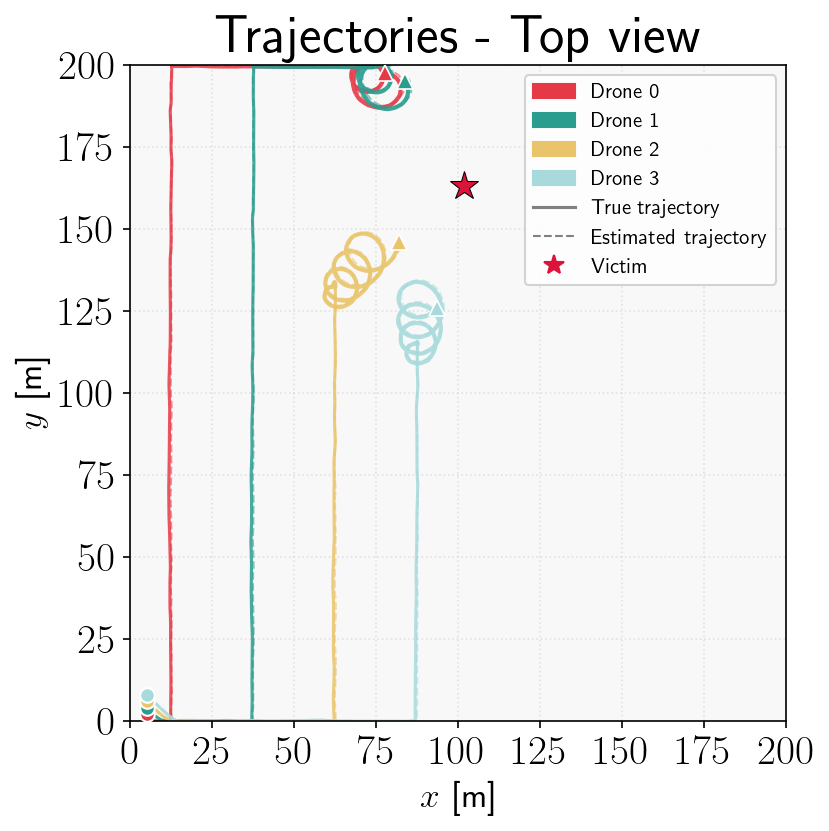
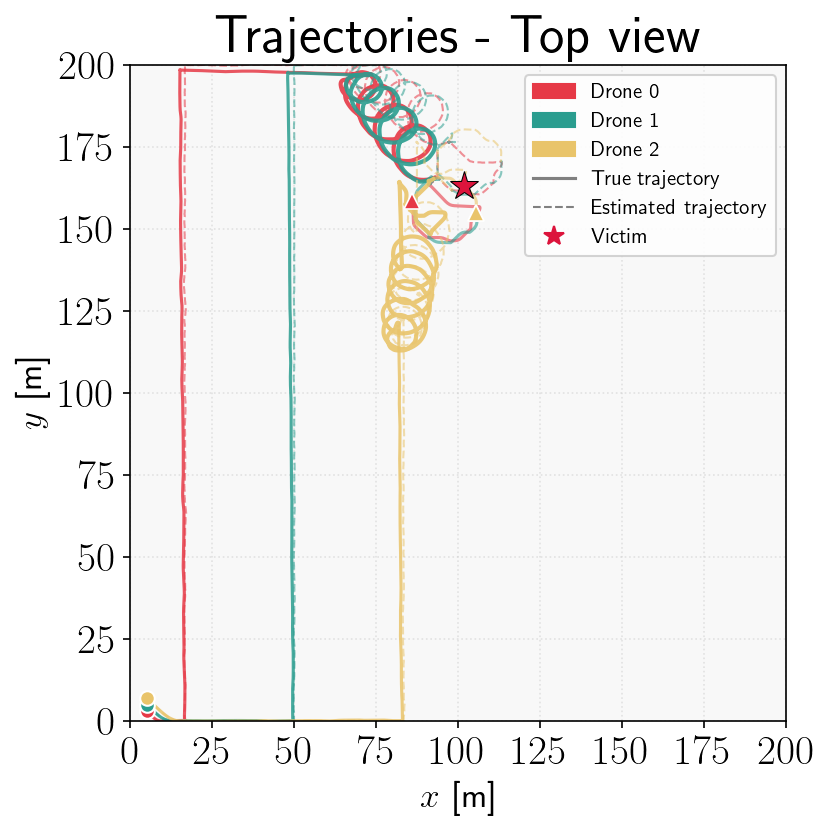
added final orbit

Changed region(s): [[0.1508, 0.0602, 0.6031, 0.8724], [0.6333, 0.1805, 0.9349, 0.3309]]

diff --git a/simulation.py b/simulation.py
@@ -56,6 +56,7 @@ from config import (
     SUPPORT_CIRCLE_N, TRIANGULATE_N_PARTNERS,
     SUPPORT_SEARCH_TIMEOUT, CONSENSUS_K_MAX,
     N_STOP,
+    FINAL_ORBIT_RADIUS, FINAL_ORBIT_N_WAYPOINTS,
 )
 
 
@@ -289,6 +290,40 @@ def _retry_support_search(
         stop_ag.support_pending = False
 
 
+def _start_final_orbit(
+    agents:    Dict[int, DroneAgent],
+    drone_ids: list,
+    terrain:   Terrain,
+    agl:       float,
+) -> list:
+    """
+    Avvia l'orbita finale di raffinamento: tutti i droni con PF attivo orbitano
+    attorno a un centro statico (media delle stime PF nel frame stimato) per
+    raccogliere viste diverse e affinare il PF prima dell'arresto.
+
+    Restituisce la lista degli id dei droni messi in orbita (vuota se nessun PF
+    è attivo, nel qual caso la simulazione può fermarsi subito).
+    """
+    pf_ids = [i for i in drone_ids
+              if agents[i].pf is not None and agents[i].source_est is not None]
+    if not pf_ids:
+        return []
+
+    center = np.mean([agents[i].source_est[:3] for i in pf_ids], axis=0)
+    n = len(pf_ids)
+    for k, i in enumerate(pf_ids):
+        ag = agents[i]
+        cw          = (k % 2 == 0)
+        start_angle = 2.0 * np.pi * k / n
+        ag.waypoints = circle_waypoints(center, FINAL_ORBIT_RADIUS,
+                                        start_angle, cw, terrain,
+                                        n_pts=FINAL_ORBIT_N_WAYPOINTS, agl=agl)
+        ag.wp_idx           = 0
+        ag.final_orbit_done = False
+        ag.state            = DroneState.FINAL_ORBIT
+    return pf_ids
+
+
 # ============================================================================
 # Extremum Seeking — TRACK mode  [Azzollini et al. 2021]
 # ============================================================================
@@ -386,6 +421,10 @@ def _on_wp_reached(
     elif ag.state == DroneState.SUPPORT:
         if not ag.advance_waypoint():
             ag.wp_idx = 0   # cicla la circonferenza
+
+    elif ag.state == DroneState.FINAL_ORBIT:
+        if not ag.advance_waypoint():
+            ag.final_orbit_done = True   # ultimo waypoint del cerchio raggiunto
 
     elif ag.state == DroneState.STOP:
         pass  # hovering
@@ -576,14 +615,28 @@ def simulate(
         DroneState.TRACK:   "TRCK",
         DroneState.STOP:    "STOP",
         DroneState.SUPPORT: "SUPP",
+        DroneState.FINAL_ORBIT: "ORBT",
     }
+
+    # Stato dell'orbita finale di raffinamento (vedi sezione Terminazione)
+    final_orbit_active   = False
+    final_orbit_start    = 0
+    orbit_ids: list      = []
+    # Tetto di sicurezza per l'orbita (anti-stallo): largo, NON è il criterio di
+    # fine — l'orbita termina quando tutti raggiungono l'ultimo waypoint.
+    orbit_safety_steps   = int(
+        FINAL_ORBIT_N_WAYPOINTS * (2.0 * np.pi * FINAL_ORBIT_RADIUS
+                                   / max(FINAL_ORBIT_N_WAYPOINTS, 1)) / V_MAX / dt * 6
+    ) + 200
 
     print(
         f"\n{'Step':>5}  {'t[s]':>6}  "
         + "  ".join(f"D{i}:st/wp/dist/Δest" for i in drone_ids)
     )
 
-    for step in range(n_steps):
+    # Il loop prosegue oltre n_steps solo per completare l'orbita finale.
+    step = 0
+    while step < n_steps or final_orbit_active:
         t = step * dt
 
         # ── 1. Misura ARTVA ──────────────────────────────────────────────
@@ -598,42 +651,44 @@ def simulate(
             ag.signal_log.append((ag.x[:3].copy(), sig_filt))
             signals[i] = sig_filt
 
-        # ── 2. Transizioni di stato ──────────────────────────────────────
-        for i in drone_ids:
-            ag  = agents[i]
-            sig = signals[i]
+        # ── 2. FSM (sospesa durante l'orbita finale di raffinamento) ──────
+        if not final_orbit_active:
+            # ── 2. Transizioni di stato ──────────────────────────────────
+            for i in drone_ids:
+                ag  = agents[i]
+                sig = signals[i]
 
-            if ag.state == DroneState.SEARCH and sig >= artva_detect_thr:
-                _transition_search_to_track(ag, i, sig, sigma_noise, step, t, terrain, agl)
+                if ag.state == DroneState.SEARCH and sig >= artva_detect_thr:
+                    _transition_search_to_track(ag, i, sig, sigma_noise, step, t, terrain, agl)
 
-            elif ag.state == DroneState.TRACK and sig >= track_stop_thr:
-                _transition_to_stop(ag, i, sig, step, t)
-                if not consensus_done[0]:
-                    _assign_support_partners(
-                        agents, drone_ids, i, sig, sigma_noise, step, terrain, agl, consensus_done,
+                elif ag.state == DroneState.TRACK and sig >= track_stop_thr:
+                    _transition_to_stop(ag, i, sig, step, t)
+                    if not consensus_done[0]:
+                        _assign_support_partners(
+                            agents, drone_ids, i, sig, sigma_noise, step, terrain, agl, consensus_done,
+                        )
+
+                elif ag.state == DroneState.SUPPORT and sig >= track_stop_thr:
+                    ag.state     = DroneState.STOP
+                    hover_wp     = ag.x_est[:3].copy()
+                    ag.waypoints = [hover_wp]
+                    ag.wp_idx    = 0
+                    print(
+                        f"\n  ⬛ Drone {i} STOP (SUPPORT→STOP, S={sig:.2e}) "
+                        f"al passo {step} (t={t:.2f}s)"
                     )
 
-            elif ag.state == DroneState.SUPPORT and sig >= track_stop_thr:
-                ag.state     = DroneState.STOP
-                hover_wp     = ag.x_est[:3].copy()
-                ag.waypoints = [hover_wp]
-                ag.wp_idx    = 0
-                print(
-                    f"\n  ⬛ Drone {i} STOP (SUPPORT→STOP, S={sig:.2e}) "
-                    f"al passo {step} (t={t:.2f}s)"
-                )
+            # ── 2b. Retry SUPPORT search per droni STOP in attesa ────────
+            for i in drone_ids:
+                if agents[i].state == DroneState.STOP and agents[i].support_pending:
+                    _retry_support_search(agents, drone_ids, i, sigma_noise, step, terrain, agl)
 
-        # ── 2b. Retry SUPPORT search per droni STOP in attesa ────────────
-        for i in drone_ids:
-            if agents[i].state == DroneState.STOP and agents[i].support_pending:
-                _retry_support_search(agents, drone_ids, i, sigma_noise, step, terrain, agl)
-
-        # ── 2c. ES update per droni in TRACK ────────────────────────────
-        for i in drone_ids:
-            ag = agents[i]
-            if ag.state == DroneState.TRACK:
-                yt = _es_condition_signal(signals[i])
-                _es_update(ag, yt, dt, terrain, agl)
+            # ── 2c. ES update per droni in TRACK ─────────────────────────
+            for i in drone_ids:
+                ag = agents[i]
+                if ag.state == DroneState.TRACK:
+                    yt = _es_condition_signal(signals[i])
+                    _es_update(ag, yt, dt, terrain, agl)
 
         # Log waypoint corrente
         for i in drone_ids:
@@ -755,26 +810,61 @@ def simulate(
                 row    += f"  {_STATE_LABEL[ag.state]}/{ag.wp_idx:02d}/{dist:5.2f}m/Δ{est_err:.2f}m"
             print(row)
 
-        # ── 9. Terminazione ──────────────────────────────────────────────
-        n_stopped = sum(1 for i in drone_ids if agents[i].state == DroneState.STOP)
-        if n_stopped >= N_STOP:
-            print(
-                f"\n  {N_STOP} droni in STOP al passo {step} (t={t:.2f}s) — "
-                "simulazione terminata"
-            )
-            break
+        # ── 9. Terminazione / orbita finale di raffinamento ──────────────
+        if final_orbit_active:
+            # L'orbita finisce quando ogni drone ha raggiunto l'ultimo waypoint
+            # del cerchio (non c'è limite di tempo). Tetto di sicurezza anti-stallo.
+            if all(agents[i].final_orbit_done for i in orbit_ids):
+                print(
+                    f"\n  Orbita finale completata (ultimo waypoint raggiunto) "
+                    f"al passo {step} (t={t:.2f}s) — simulazione terminata"
+                )
+                break
+            if step - final_orbit_start >= orbit_safety_steps:
+                print(
+                    f"\n  Orbita finale: tetto di sicurezza raggiunto al passo "
+                    f"{step} (t={t:.2f}s) — simulazione terminata"
+                )
+                break
+        else:
+            n_stopped = sum(1 for i in drone_ids if agents[i].state == DroneState.STOP)
 
-        # Un solo drone basta per stimare la sorgente (PF). Se un drone in STOP
-        # ha esaurito la finestra di chiamata SUPPORT senza trovare partner
-        # vicini, è inutile attendere oltre: si chiude subito per dare prima una
-        # posizione ai soccorritori.
-        if any(agents[i].state == DroneState.STOP and agents[i].support_failed
-               for i in drone_ids):
-            print(
-                f"\n  Chiamata SUPPORT scaduta senza partner al passo {step} "
-                f"(t={t:.2f}s) — stima PF disponibile, simulazione terminata"
-            )
-            break
+            # Condizioni di stop (→ orbita finale):
+            #   1. l'intero team è in STOP (N_STOP droni);
+            #   2. la chiamata SUPPORT di un drone in STOP è scaduta: il timeout
+            #      va SEMPRE atteso, anche se nel frattempo qualche partner si è
+            #      già fermato (team < N_STOP), così da dare tempo di reclutare
+            #      altri droni prima di rinunciare;
+            #   3. timeout globale (ultimo passo).
+            reason = None
+            if n_stopped >= N_STOP:
+                reason = f"{N_STOP} droni in STOP"
+            elif any(agents[i].state == DroneState.STOP and agents[i].support_failed
+                     for i in drone_ids):
+                reason = "chiamata SUPPORT scaduta"
+            elif step >= n_steps - 1:
+                reason = "timeout"
+
+            if reason is not None:
+                # Comunque venga fermata, prima dello stop i droni con PF attivo
+                # orbitano attorno alla stima (centro statico) per affinare il PF.
+                orbit_ids = _start_final_orbit(agents, drone_ids, terrain, agl)
+                if orbit_ids:
+                    final_orbit_active = True
+                    final_orbit_start  = step
+                    print(
+                        f"\n  Stop ({reason}) al passo {step} (t={t:.2f}s) — "
+                        f"orbita finale di raffinamento ({FINAL_ORBIT_N_WAYPOINTS} "
+                        f"waypoint): droni {orbit_ids} attorno alla stima"
+                    )
+                else:
+                    print(
+                        f"\n  Stop ({reason}) al passo {step} (t={t:.2f}s) — "
+                        "nessun PF attivo, simulazione terminata"
+                    )
+                    break
+
+        step += 1
 
 
     # ── Stima finale PF: media pesata + deviazione standard ───────────────

diff --git a/config.py b/config.py
@@ -133,8 +133,19 @@ PF_N_PARTICLES = 300   # numero di particelle per drone
 # ============================================================================
 SUPPORT_CIRCLE_N       = 9     # waypoint sulla circonferenza percorsa dai droni SUPPORT
 TRIANGULATE_N_PARTNERS = 2     # droni chiamati in supporto al primo STOP
-SUPPORT_SEARCH_TIMEOUT = 500  # [steps] attesa max per trovare partner SUPPORT mancanti
+SUPPORT_SEARCH_TIMEOUT = 300  # [steps] attesa max per trovare partner SUPPORT mancanti
 CONSENSUS_K_MAX        = 10    # iterazioni max min-consensus (≥ diametro stimato della rete)
+
+# ============================================================================
+# Orbita finale di raffinamento
+# ============================================================================
+# Comunque la simulazione venga fermata (N_STOP, SUPPORT scaduto, o timeout),
+# prima di arrestarsi tutti i droni con PF attivo compiono una rapida orbita
+# attorno alla posizione stimata (centro statico catturato all'istante di stop)
+# per raccogliere viste diverse e affinare il PF prima di consegnare la stima.
+FINAL_ORBIT_RADIUS  = 10.0   # [m]  raggio dell'orbita finale
+FINAL_ORBIT_N_WAYPOINTS = 12  # waypoint sul cerchio: l'orbita finisce quando
+                              # ogni drone ha raggiunto l'ultimo waypoint
 
 # ============================================================================
 # Visualizzazione

diff --git a/drone_agent.py b/drone_agent.py
@@ -35,10 +35,11 @@ from pf import ParticleFilter
 # ============================================================================
 
 class DroneState(IntEnum):
-    SEARCH  = 0   # lawnmower, ricerca attiva
-    TRACK   = 1   # esplorazione 3 punti, convergenza sulla sorgente
-    STOP    = 2   # hovering, ha raggiunto la soglia TRACK_STOP_THR
-    SUPPORT = 3   # si posiziona a 120° attorno alla stima della sorgente per triangolazione
+    SEARCH      = 0   # lawnmower, ricerca attiva
+    TRACK       = 1   # esplorazione 3 punti, convergenza sulla sorgente
+    STOP        = 2   # hovering, ha raggiunto la soglia TRACK_STOP_THR
+    SUPPORT     = 3   # si posiziona a 120° attorno alla stima della sorgente per triangolazione
+    FINAL_ORBIT = 4   # orbita finale di raffinamento attorno alla stima, prima dell'arresto
 
 
 # ============================================================================
@@ -202,6 +203,7 @@ class DroneAgent:
     support_deadline:     int   = 0       # step oltre cui si rinuncia
     support_n_needed:     int   = 0       # partner ancora mancanti
     support_failed:       bool  = False   # True se la chiamata di supporto è scaduta senza partner
+    final_orbit_done:     bool  = False   # True quando il drone ha raggiunto l'ultimo waypoint dell'orbita finale
 
 
     # ARTVA signal

diff --git a/visualization.py b/visualization.py
@@ -192,7 +192,8 @@ def plot_mission(
         state_seq = _reconstruct_state_sequence(ag)
         n         = min(len(traj), len(state_seq))
         s_idx = [k for k in range(n) if state_seq[k] == DroneState.SEARCH]
-        t_idx = [k for k in range(n) if state_seq[k] in (DroneState.TRACK, DroneState.SUPPORT)]
+        t_idx = [k for k in range(n) if state_seq[k] in (
+            DroneState.TRACK, DroneState.SUPPORT, DroneState.FINAL_ORBIT)]
         p_idx = [k for k in range(n) if state_seq[k] == DroneState.STOP]
         if s_idx:
             ax_a.plot(traj[s_idx, 0], traj[s_idx, 1], color=c, lw=1.0, alpha=0.45, ls="--")
@@ -1211,6 +1212,8 @@ def animate_mission(
                     st = "TRCK"
                 elif _s == DroneState.STOP:
                     st = "STOP"
+                elif _s == DroneState.FINAL_ORBIT:
+                    st = "ORBT"
                 else:
                     st = "SUPP"
             elif sig < ARTVA_DETECT_THR:

diff --git a/run_experiments.py b/run_experiments.py
@@ -270,7 +270,10 @@ def run_one(
         steps_run = len(next(iter(agents.values())).history) - 1
         time_s    = steps_run * DT_SIM
 
-        n_stopped  = sum(1 for ag in agents.values() if ag.state == DroneState.STOP)
+        # STOP o FINAL_ORBIT: i droni che hanno raggiunto la sorgente (a fine run
+        # quelli con PF attivo sono in FINAL_ORBIT per l'orbita di raffinamento).
+        n_stopped  = sum(1 for ag in agents.values()
+                         if ag.state in (DroneState.STOP, DroneState.FINAL_ORBIT))
 
         n_tracked  = sum(1 for ag in agents.values() if ag.detected)
 
